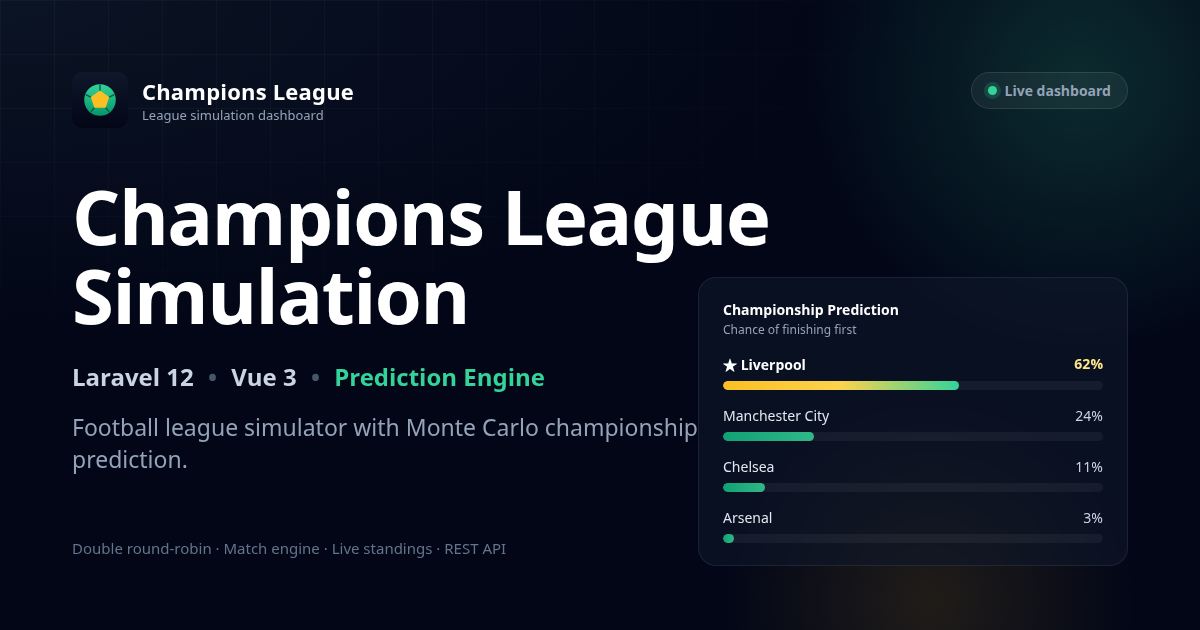
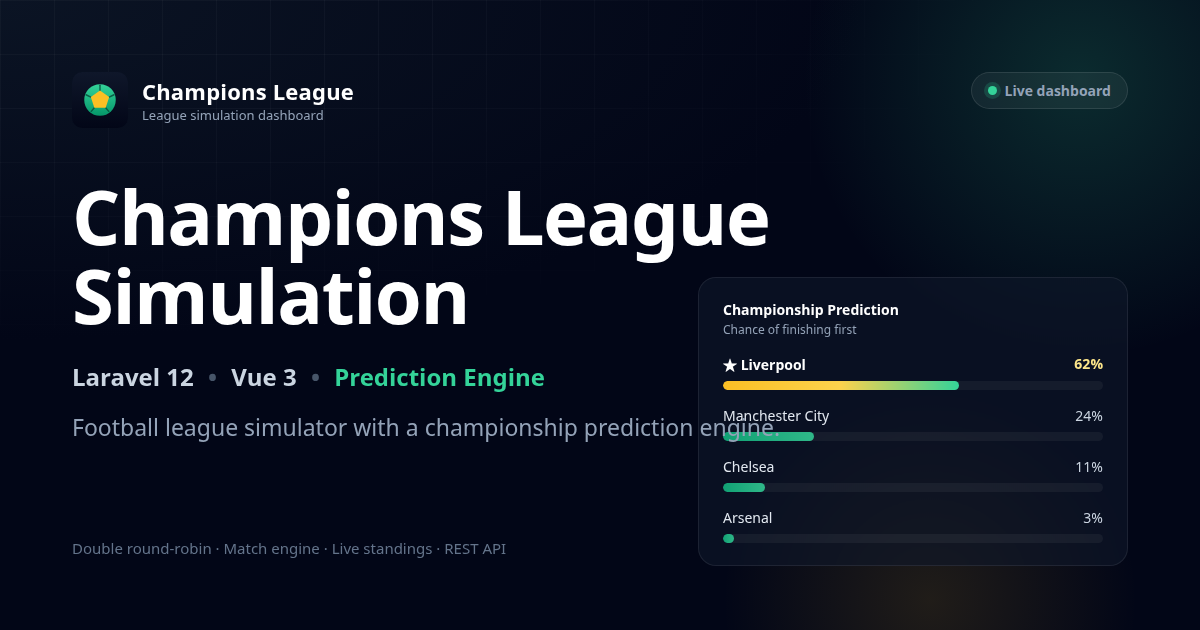
docs: audit assignment requirements

Changed region(s): [[0.3392, 0.6635, 0.6475, 0.6937], [0.0617, 0.7238, 0.1542, 0.754]]

diff --git a/frontend/index.html b/frontend/index.html
@@ -7,7 +7,7 @@
     <title>Champions League Simulation</title>
     <meta
       name="description"
-      content="Football league simulator with Monte Carlo championship prediction — a Laravel 12 API and a premium Vue 3 dashboard."
+      content="Football league simulator with a championship prediction engine — a Laravel 12 API and a premium Vue 3 dashboard."
     />
     <meta name="theme-color" content="#0f172a" />
 
@@ -26,7 +26,7 @@
     <meta property="og:title" content="Champions League Simulation" />
     <meta
       property="og:description"
-      content="Football league simulator with Monte Carlo championship prediction."
+      content="Football league simulator with a championship prediction engine."
     />
     <meta property="og:image" content="/social-preview.png" />
     <meta property="og:image:width" content="1200" />
@@ -38,7 +38,7 @@
     <meta name="twitter:title" content="Champions League Simulation" />
     <meta
       name="twitter:description"
-      content="Football league simulator with Monte Carlo championship prediction."
+      content="Football league simulator with a championship prediction engine."
     />
     <meta name="twitter:image" content="/social-preview.png" />
   </head>

diff --git a/frontend/src/components/ActionPanel.vue b/frontend/src/components/ActionPanel.vue
@@ -145,7 +145,7 @@ function playSelectedWeek(): void {
         </button>
       </template>
 
-      <div class="flex w-full items-center gap-3 sm:ml-auto sm:w-auto">
+      <div v-if="hasFixtures" class="flex w-full items-center gap-3 sm:ml-auto sm:w-auto">
         <span
           v-if="isComplete"
           class="rounded-full bg-amber-400/15 px-3 py-1 text-xs font-medium text-amber-300"

diff --git a/docs/requirements-audit.md b/docs/requirements-audit.md
@@ -1,0 +1,39 @@
+# Requirements Audit
+
+A checklist mapping the assignment brief (and FAQ) to what is implemented, with
+evidence. Status is one of **Done** (required item implemented), **Extra**
+(optional "strong plus" implemented), or **Future** (not yet implemented).
+
+## Required
+
+| Requirement | Status | Evidence |
+| --- | --- | --- |
+| Four teams | Done | `backend/database/seeders/TeamSeeder.php` seeds exactly Liverpool (90), Manchester City (88), Chelsea (82), Arsenal (80); `TeamSeederTest`. |
+| Strength-based match simulation (stronger usually wins, weaker still can) | Done | `MatchSimulationService::generateScore()` converts strength + home advantage into per-attempt scoring chance with injected randomness; `MatchSimulationServiceTest` asserts stronger teams win more often and a weaker team can still win. |
+| Premier League scoring (3/1/0, GD, GF, points) | Done | `TeamStanding::points()` = `won*3 + drawn`; `LeagueStandingsService` sorts by points → goal difference → goals for → name; `LeagueStandingsServiceTest`. |
+| Week-by-week simulation | Done | `PlayWeekAction` / `PlayNextWeekAction`; `POST /api/weeks/{week}/play`, `POST /api/weeks/next/play`; dashboard "Play Next Week" / "Play Week"; `PlayLeagueActionsTest`. |
+| League table updates after each week | Done | `LeagueStandingsService::calculate()` derives standings from played fixtures; `GET /api/standings`; the store refreshes standings after every action and `StandingsTable.vue` re-renders. |
+| Prediction after the 4th week / last weeks | Done | `ChampionshipPredictionService` (Monte Carlo) gated at `MIN_PLAYED_FIXTURES = 8` (after week 4) or league complete; `GET /api/predictions`; `ChampionshipPredictionServiceTest`; `PredictionPanel.vue` shows an "X / 8" unlock progress. See note below. |
+| PHP / Laravel backend | Done | Laravel 12 application under `backend/`. |
+| JavaScript front-end with a component design pattern (Vue) | Done | Vue 3 + TypeScript SPA; component-based UI under `frontend/src/components/` (AppShell, StandingsTable, FixtureWeekCard, PredictionPanel, ActionPanel, WeekPicker, …). |
+| OOP | Done | Service/action layering and value objects: `app/Services/*`, `app/Actions/*`, immutable `TeamStanding` / `MatchResult` / `ChampionChance`. |
+| Automated tests | Done | PHPUnit feature/unit tests under `backend/tests/` (73 tests) covering fixtures, simulation, standings, prediction, orchestration, and the API. |
+| Shareable project link (Git host) | Done (repo) | Git repository with full history and README, hosted on GitHub. A live deployed URL is planned in the upcoming CI/CD & deployment phase. |
+
+## Extras (optional "strong plus")
+
+| Extra | Status | Evidence |
+| --- | --- | --- |
+| "Play All" — auto-play to the end and list results by week | Extra | `PlayAllRemainingFixturesAction` returns played fixtures grouped by week; `POST /api/league/play-all`; dashboard "Play All Remaining" with a confirmation modal. |
+| Match results listed by week | Extra | `GET /api/fixtures` returns fixtures grouped by week; `FixtureWeekCard.vue` renders each week with scores and played/pending badges. |
+| Edit match results and recalculate standings | Future | Not implemented. There is no endpoint or UI to edit a played fixture's score. Standings are always recomputed from stored fixtures, so adding an edit endpoint that re-derives the table would be a natural follow-up. |
+
+## Notes
+
+- **Prediction timing.** The brief says predictions appear "after the 4th week"; the
+  FAQ phrases it as "entering the last 3 weeks". For a four-team double round-robin
+  (6 weeks, 2 fixtures per week) these differ by one week. This project follows the
+  brief: predictions unlock once **8 fixtures (week 4)** are played, or immediately
+  when the season is complete (the leader is then 100%).
+- **Deployment.** Live deployment and CI are intentionally deferred to a later phase;
+  the repository itself is share-ready.

diff --git a/README.md b/README.md
@@ -1,7 +1,7 @@
 # Champions League Simulation
 
 > A football league simulator with double round-robin scheduling, a strength-based
-> match engine, live standings, and Monte Carlo title prediction — served by a
+> match engine, live standings, and a championship prediction engine — served by a
 > Laravel REST API and a polished Vue 3 dashboard.
 
 [**▶ Watch the demo**](#demo) · [Features](#features) · [Screenshots](#screenshots) · [Architecture](#architecture) · [Local setup](#local-setup)
@@ -18,11 +18,11 @@
 - **Double round-robin fixtures** — 12 matches across 6 weeks, each pair home and away.
 - **Match simulation engine** — results driven by team strength, home advantage, and controlled randomness.
 - **Live standings** — points, goal difference, and tiebreakers recomputed from played fixtures.
-- **Monte Carlo championship prediction** — thousands of simulated seasons estimate each team's title chance.
+- **Prediction engine** — a Monte Carlo simulation over the remaining fixtures estimates each team's title chance (from the 4th week onward).
 - **REST API** — clean JSON endpoints with meaningful status codes.
 - **Vue dashboard** — responsive, dark, premium analytics UI with toasts, skeletons, and transitions.
 - **Installable PWA** — web manifest, icons, and a custom favicon; add it to your home screen.
-- **Laravel backend** — service/action layered architecture with full test coverage.
+- **Laravel backend** — service/action layered architecture, covered by automated tests.
 
 ---
 
@@ -252,12 +252,18 @@ predictable starting point for both gameplay and tests.
 
 ## Future improvements
 
+- **Edit match results and recalculate standings** — the one optional extra from the
+  brief not yet implemented (standings already recompute from stored fixtures, so this
+  is a natural follow-up)
 - Authentication and per-user leagues
 - Multiple seasons and historical records
 - Team management (create, edit, rename)
 - Player transfers affecting team strength
 - REST pagination and filtering
 - CI/CD pipeline with automated deployment
+
+How each assignment requirement maps to the implementation is tracked in the
+[requirements audit](docs/requirements-audit.md).
 
 ---
 